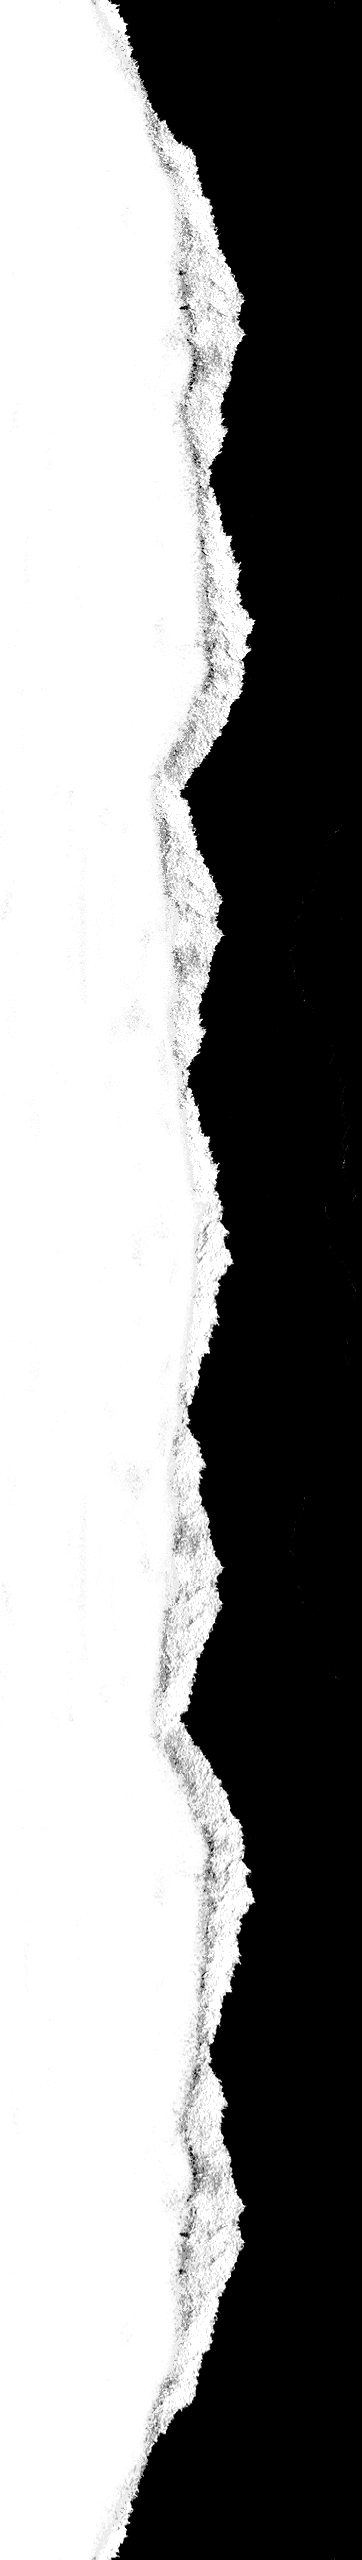
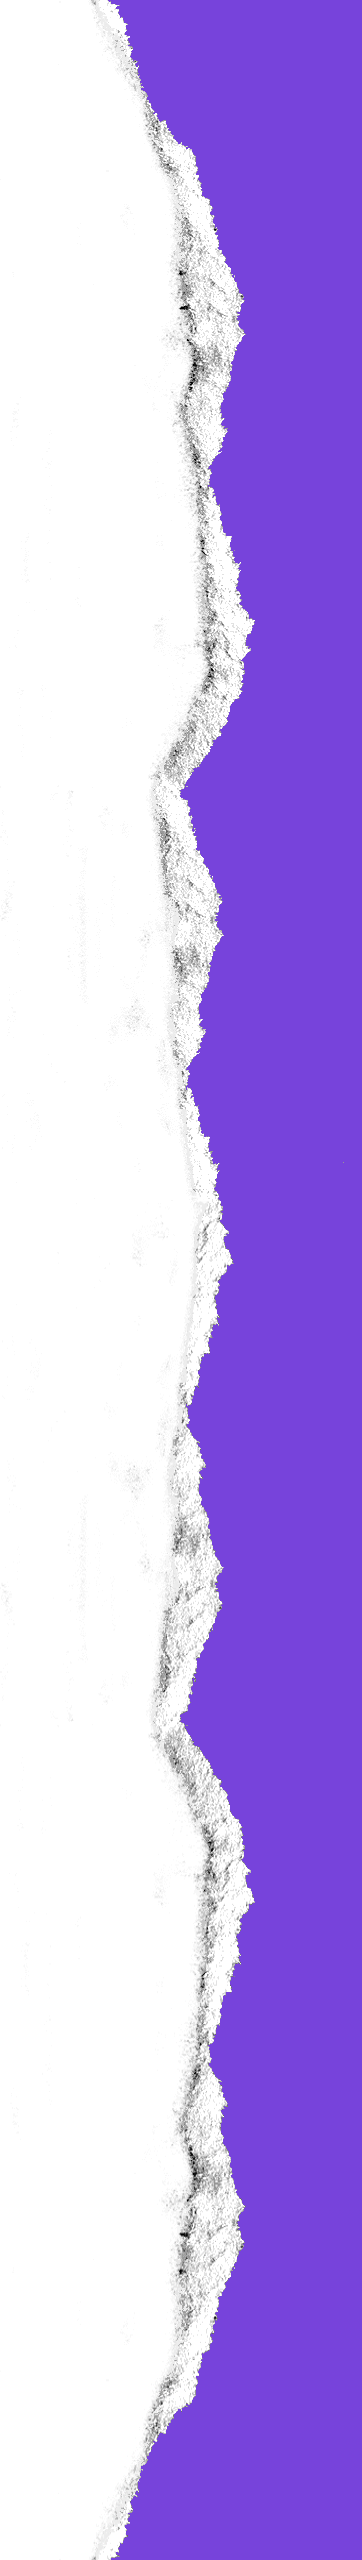
Add button

diff --git a/style.css b/style.css
@@ -46,12 +46,17 @@ header > img {
 }
 
 .left-side {
+    display: flex;
+    flex-direction: column;
     height: 100vh;
     width: 50vw;
-    padding: 20em 10em;
+    padding-top: 30%;
+    padding-left: 6em;
 }
 
 .left-side > h1 {
+    position: relative;
+    display: inline-block;
     font-size: 80px;
     font-weight: 700;
     font-family: "League Spartan", sans-serif;
@@ -60,6 +65,56 @@ header > img {
 
 .left-side > h1 > span {
     color: var(--secondary-color);
+}
+
+.left-side > a {
+    font-size: 18px;
+    letter-spacing: 2px;
+    text-transform: uppercase;
+    display: inline-block;
+    text-align: center;
+    font-weight: bold;
+    font-family: "League Spartan", sans-serif;
+    padding: 1.5em 1em;
+    border: 3px solid var(--primary-color);
+    border-radius: 2px;
+    position: relative;
+    box-shadow: 0 2px 10px rgba(0, 0, 0, 0.16), 0 3px 6px rgba(0, 0, 0, 0.1);
+    color: var(--primary-color);
+    text-decoration: none;
+    transition: 0.3s ease all;
+    user-select: none;
+    width: 25em;
+    z-index: 1;
+}
+
+.left-side > a:before {
+    transition: 0.5s all ease;
+    position: absolute;
+    top: 0;
+    left: 50%;
+    right: 50%;
+    bottom: 0;
+    opacity: 0;
+    content: '';
+    background-color: var(--primary-color);
+    z-index: -1;
+}
+
+.left-side > a:hover, .left-side > a:focus {
+    color: white;
+    cursor: pointer;
+}
+
+.left-side > a:hover:before, .left-side > a:focus:before {
+    transition: 0.5s all ease;
+    left: 0;
+    right: 0;
+    opacity: 1;
+}
+
+.left-side > a:active {
+    transform: scale(0.9);
 }
 
 .right-side {
@@ -73,5 +128,4 @@ header > img {
     position: relative;
     width: 8em;
     right: 5em;
-    mix-blend-mode: screen;
 }

diff --git a/index.html b/index.html
@@ -37,6 +37,9 @@
                 Je m'appelle <br>
                 <span>Jules AUTRET</span>
             </h1>
+            <a>
+                Test
+            </a>
         </section>
         <section class="right-side">
             <img src="images/papercut.png" alt="papercut">
